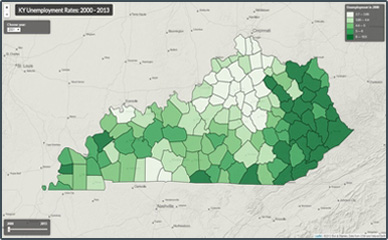
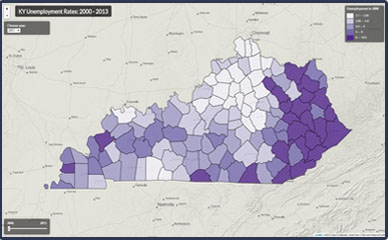
update

diff --git a/ky-unemployment/bk/index.html b/ky-unemployment/bk/index.html
@@ -330,15 +330,15 @@
                 
         function getColor(d, breaks) {
             if(d <= breaks[1]) {
-                return '#f2f0f7';
+                return '#edf8e9';
             } else if(d <= breaks[2]) {
-                return '#cbc9e2';
+                return '#bae4b3';
             } else if(d <= breaks[3]) {
-                return '#9e9ac8';
+                return '#74c476';
             } else if(d <= breaks[4]) {
-                return '#756bb1'
+                return '#31a354'
             } else if(d <= breaks[5]) {
-                return '#54278f'
+                return '#006d2c'
             }
         }
 
